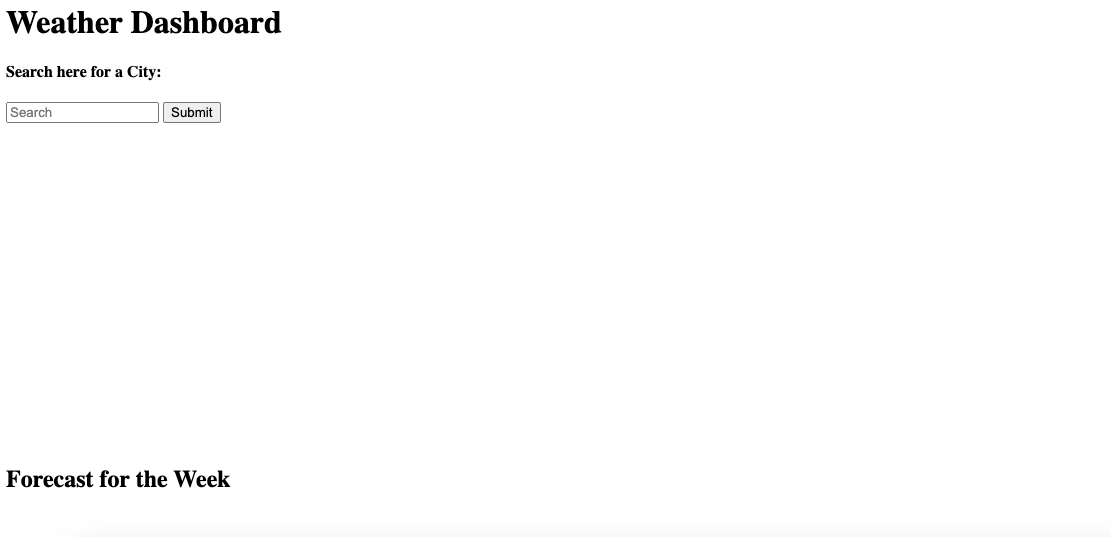
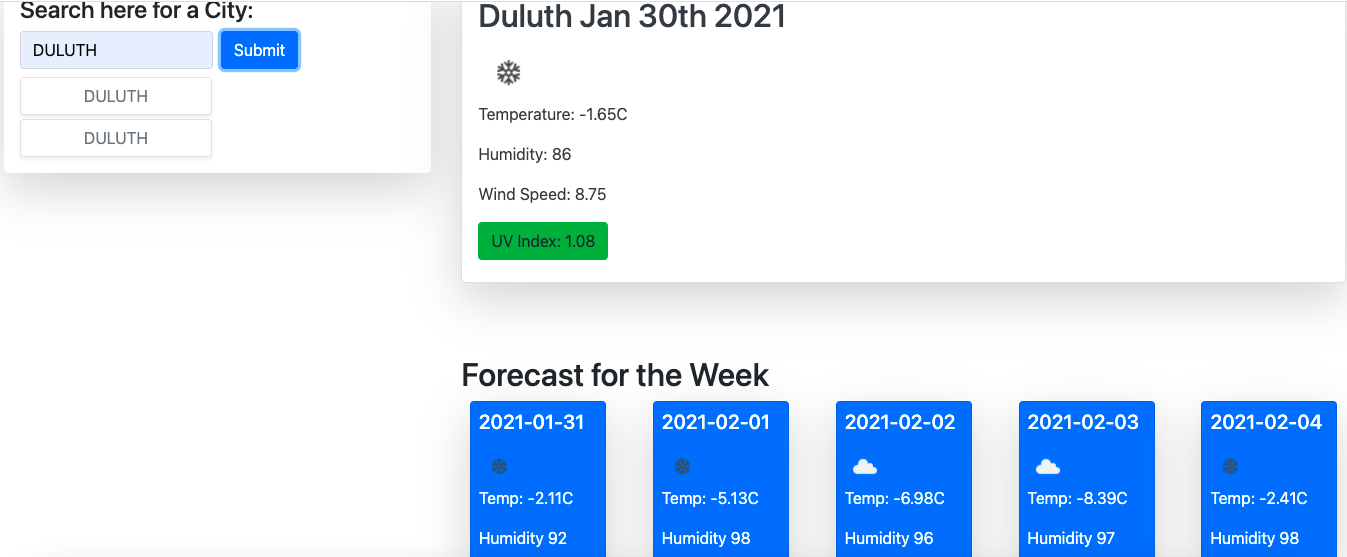
made the application to work

diff --git a/assets/script.js b/assets/script.js
@@ -14,7 +14,7 @@ function cityWeather(cityName) {
         $("#current").empty();
         var mainDate = moment().format("MMM Do YYYY");
 
-        //creating variables for        
+        //creating variables for html   
         var cityNameEl = $("<h2>").text(response.name);
         var displayMainDate = cityNameEl.append(" " + mainDate);
         var tempEL = $("<p>").text("Temperature: " + response.main.temp + "C");
@@ -22,7 +22,136 @@ function cityWeather(cityName) {
         var windEl = $("<p>").text("Wind Speed: " + response.wind.speed);
         var currentWeather = response.weather[0].main;
 
-        
+        if (currentWeather === "Rain") {
+            var currentIcon = $('<img>').attr("src", "http://openweathermap.org/img/wn/09d.png");
+            currentIcon.attr("style", "height: 60px; width: 60px");
+        } else if (currentWeather === "Clouds") {
+            var currentIcon = $('<img>').attr("src", "http://openweathermap.org/img/wn/03d.png");
+            currentIcon.attr("style", "height: 60px; width: 60px");
+        } else if (currentWeather === "Clear") {
+            var currentIcon = $('<img>').attr("src", "http://openweathermap.org/img/wn/01d.png");
+            currentIcon.attr("style", "height: 60px; width: 60px");
+        }
+        else if (currentWeather === "Drizzle") {
+            var currentIcon = $('<img>').attr("src", "http://openweathermap.org/img/wn/10d.png");
+            currentIcon.attr("style", "height: 60px; width: 60px");
+        }
+        else if (currentWeather === "Snow") {
+            var currentIcon = $('<img>').attr("src", "http://openweathermap.org/img/wn/13d.png");
+            currentIcon.attr("style", "height: 60px; width: 60px");
+        }
+        //this is the append the information below
+        var newDiv = $('<div>');
+
+        newDiv.append(displayMainDate, currentIcon, tempEL, humidityEl, windEl);
+
+        $("#current").html(newDiv);
+
+        var latitude = response.coord.lat;
+        var longitude = response.coord.lon;
+        var queryURLUV = "https://api.openweathermap.org/data/2.5/uvi?&appid=fe59e8083e8f556ac01c563a325ee7aa&lat=" + latitude + "&lon=" + longitude;
+
+        $.ajax({
+            url: queryURLUV,
+            method: 'GET'
+        }).then(function (response) {
+            $('#uvDisplay').empty();
+            var uvResults = response.value;
+            //create HTML for new div
+            var uvEl = $("<button class='btn bg-success'>").text("UV Index: " + response.value);
+
+            $('#uvDisplay').html(uvEl);
+
+        });
     });
+
+    $.ajax({
+        url: queryURLforecast,
+        method: 'GET'
+    }).then(function (response) {
+
+        var results = response.list;
+        //creating div for future forecasts
+        $("weeklyForecast").empty();
+        //creating html for future forecasts
+        for (var i = 0; i < results.length; i += 8) {
+            // creating the fiveDayForecast div
+            var fiveDayForecast = $("<div class='card shadow-lg text-white bg-primary mx-auto mb-10 p-2' style='width: 8.5rem; height: 11rem;'>");
+
+            //creating variable to store the information
+            var date = results[i].dt_txt;
+            var setD = date.substr(0, 10)
+            var temp = results[i].main.temp;
+            var humidity = results[i].main.humidity;
+
+            //creating tags fromt he results information
+            var h5date = $("<h5 class='card-title'>").text(setD);
+            var pTemp = $("<p class='card-text'>").text("Temp: " + temp + "C");;
+            var pHum = $("<p class='card-text'>").text("Humidity " + humidity);;
+
+            var weather = results[i].weather[0].main
+
+            if (weather === "Rain") {
+                var icon = $('<img>').attr("src", "http://openweathermap.org/img/wn/09d.png");
+                icon.attr("style", "height: 40px; width: 40px");
+            } else if (weather === "Clouds") {
+                var icon = $('<img>').attr("src", "http://openweathermap.org/img/wn/03d.png");
+                icon.attr("style", "height: 40px; width: 40px");
+            }
+            else if (weather === "Clear") {
+                var icon = $('<img>').attr("src", "http://openweathermap.org/img/wn/01d.png");
+                icon.attr("style", "height: 40px; width: 40px");
+            }
+            else if (weather === "Drizzle") {
+                var icon = $('<img>').attr("src", "http://openweathermap.org/img/wn/10d.png");
+                icon.attr("style", "height: 40px; width: 40px");
+            }
+            else if (weather === "Snow") {
+                var icon = $('<img>').attr("src", "http://openweathermap.org/img/wn/13d.png");
+                icon.attr("style", "height: 40px; width: 40px");
+            }
+
+            //appending items
+            fiveDayForecast.append(h5date);
+            fiveDayForecast.append(icon);
+            fiveDayForecast.append(pTemp);
+            fiveDayForecast.append(pHum);
+            $("#weeklyForecast").append(fiveDayForecast);
+        }
+
+    });
+
+}
+    pageLoad();
+
+    $("#selectCity").on("click", function (event) {
+
+    event.preventDefault();
+
+    var cityInput = $("#inputCity").val().trim();
+
+    //saving the search to the local storage
+    var textContent = $(this).siblings("input").val();
+    var storearr = [];
+    storearr.push(textContent);
+    localStorage.setItem('cityName', JSON.stringify(storearr));
+
+    cityWeather(cityInput);
+    pageLoad();
+});
+
+function pageLoad() {
+    var lastSearch = JSON.parse(localStorage.getItem("cityName"));
+    var searchDiv = $("<button class='btn border text-muted mt-1 shadow-sm bg-white rounded' style='width: 12rem;'>").text(lastSearch);
+    var psearch = $("<div>");
+    psearch.append(searchDiv)
+    $("#searchHistory").prepend(psearch);
 }
 
+
+$("#searchHistory").on('click', '.btn', function (event) {
+    event.preventDefault();
+    console.log($(this).text());
+    cityWeather($(this).text());
+
+});

diff --git a/index.html b/index.html
@@ -6,16 +6,12 @@
     <meta name="viewport" content="width=device-width, initial-scale=1.0">
 
     <!--Links to Bootstrap-->
-    <script src="https://cdn.jsdelivr.net/npm/@popperjs/core@2.5.4/dist/umd/popper.min.js"
-        integrity="sha384-q2kxQ16AaE6UbzuKqyBE9/u/KzioAlnx2maXQHiDX9d4/zp8Ok3f+M7DPm+Ib6IU"
-        crossorigin="anonymous"></script>
-    <script src="https://cdn.jsdelivr.net/npm/bootstrap@5.0.0-beta1/dist/js/bootstrap.min.js"
-        integrity="sha384-pQQkAEnwaBkjpqZ8RU1fF1AKtTcHJwFl3pblpTlHXybJjHpMYo79HY3hIi4NKxyj"
-        crossorigin="anonymous"></script>
+    <link rel="stylesheet" href="https://use.fontawesome.com/releases/v5.8.1/css/all.css" integrity="sha384-50oBUHEmvpQ+1lW4y57PTFmhCaXp0ML5d60M1M7uH2+nqUivzIebhndOJK28anvf" crossorigin="anonymous"/>
+    <link rel="stylesheet" href="https://stackpath.bootstrapcdn.com/bootstrap/4.3.1/css/bootstrap.min.css" integrity="sha384-ggOyR0iXCbMQv3Xipma34MD+dH/1fQ784/j6cY/iJTQUOhcWr7x9JvoRxT2MZw1T" crossorigin="anonymous">
 
     <!--Link to CSS-->
 
-    <title>Document</title>
+    <title>Weather Dashboard</title>
 </head>
 
 <body>
@@ -32,9 +28,9 @@
                 <nav class="navbar navbar-light bg-light shadow-lg p-3 mb-5 bg-white rounded">
                     <h4>Search here for a City:</h4>
                     <form class="form-inline">
-                        <input id="searchBar" class="form-control mr-sm-2" type="search" placeholder="Search"
+                        <input id="inputCity" class="form-control mr-sm-2" type="search" placeholder="Search"
                             aria-label="Search">
-                        <button id="inputCity" class="btn btn-primary my-2 my-sm-0" type="submit">Submit</button>
+                        <button id="selectCity" class="btn btn-primary my-2 my-sm-0" type="submit">Submit</button>
                     </form>
 
                     <form id="searchHistory" class="mt-1"> </form>
@@ -59,10 +55,10 @@
         </div>
     </main>
 
-    <!--Link to JQuery-->
     <script src="https://code.jquery.com/jquery-3.5.1.min.js" integrity="sha256-9/aliU8dGd2tb6OSsuzixeV4y/faTqgFtohetphbbj0=" crossorigin="anonymous"></script>
-    <!--Link to Script File-->
-    <script type="text/javascript" src=""></script>
+    <script src="https://cdnjs.cloudflare.com/ajax/libs/popper.js/1.14.7/umd/popper.min.js" integrity="sha384-UO2eT0CpHqdSJQ6hJty5KVphtPhzWj9WO1clHTMGa3JDZwrnQq4sF86dIHNDz0W1" crossorigin="anonymous"></script>
+    <script src="https://cdnjs.cloudflare.com/ajax/libs/moment.js/2.24.0/moment.min.js"></script>
+    <script type="text/javascript" src="./assets/script.js"></script>
 </body>
 
 </html>

diff --git a/README.md b/README.md
@@ -35,4 +35,4 @@ Please see an image of my application:
 
 # Purpose
 
-I believe the purpose of this assignment was to test my abilities in CSS, HTML, JavaScript, and teach me how to use APIs. I obviously do not have an application that works. I amd struggling to understand how to utilize the API and write the JavaScript for this. I will be resubmitting this in the future. 
+I believe the purpose of this assignment was to test my abilities in JavaScript and teach me how to use APIs. I struggled a lot on this assignment and need to come back to refactor the code/make the application work better.
